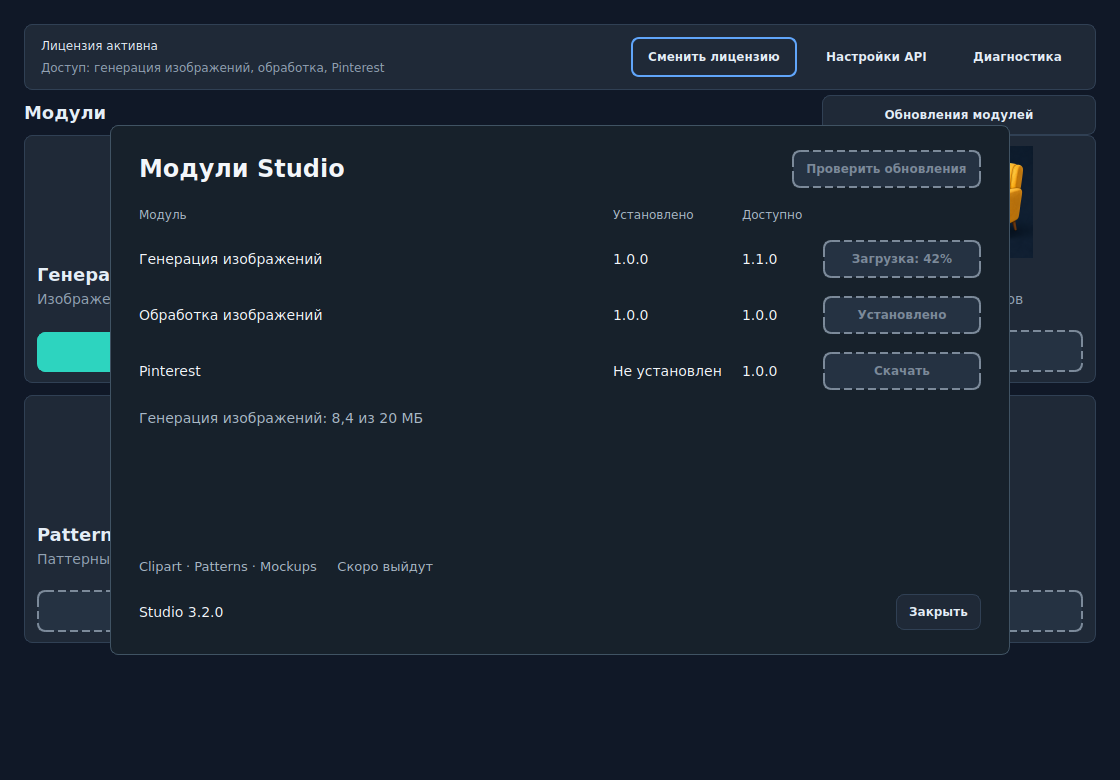
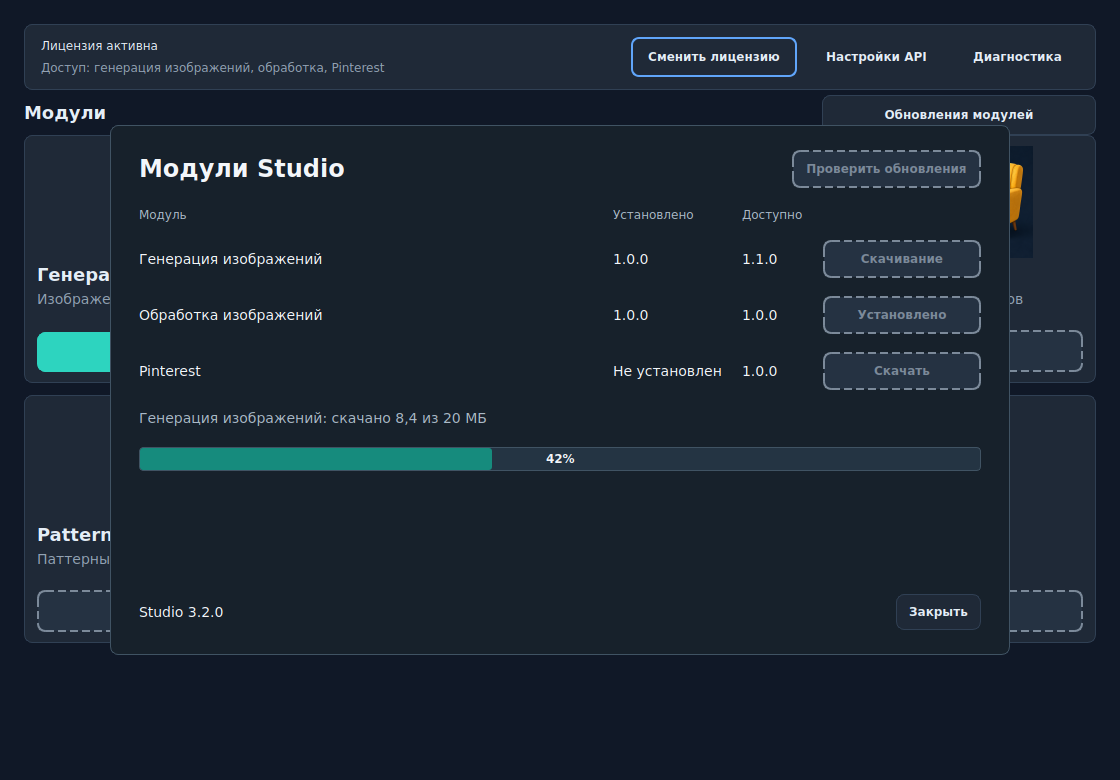
Refine approved module update mockups and progress states [skip ci]

diff --git a/docs/ui/3.2/module-delivery/render_proposal.py b/docs/ui/3.2/module-delivery/render_proposal.py
@@ -7,7 +7,7 @@ ROOT = Path(__file__).resolve().parents[4]
 sys.path.insert(0, str(ROOT))
 
 from PyQt6.QtCore import Qt
-from PyQt6.QtWidgets import QApplication, QFrame, QGridLayout, QHBoxLayout, QLabel, QPushButton, QVBoxLayout
+from PyQt6.QtWidgets import QApplication, QFrame, QGridLayout, QHBoxLayout, QLabel, QProgressBar, QVBoxLayout
 from v3_components import build_v3_stylesheet, V3Button, ButtonVariant
 from v3_mode_selection import V3ApplicationView
 
@@ -26,7 +26,8 @@ def render():
         entry = V3Button("Обновления модулей", variant=ButtonVariant.SECONDARY, parent=view)
         entry.setGeometry(822, 95, 274, 34)
         entry.show()
-        for state in ("available", "downloading", "busy", "error", "no-access"):
+        for state in ("available", "checking", "downloading", "verifying", "busy", "error", "no-access"):
+            in_progress = state in {"checking", "downloading", "verifying"}
             overlay = QFrame(view)
             overlay.setGeometry(110, 125, 900, 530)
             overlay.setObjectName("moduleProposal")
@@ -42,7 +43,7 @@ def render():
             heading.addWidget(title)
             heading.addStretch()
             check = V3Button("Проверить обновления", variant=ButtonVariant.SECONDARY)
-            check.setEnabled(state != "downloading")
+            check.setEnabled(not in_progress)
             heading.addWidget(check)
             layout.addLayout(heading)
             table = QGridLayout()
@@ -62,7 +63,9 @@ def render():
                 if state == "no-access":
                     available, action = "Нет доступа", "Недоступно"
                 elif state == "downloading" and row == 1:
-                    action = "Загрузка: 42%"
+                    action = "Скачивание"
+                elif state == "verifying" and row == 1:
+                    action = "Проверка пакета"
                 elif state == "busy" and row == 1:
                     action = "Проект открыт"
                 elif state == "error" and row == 1:
@@ -71,13 +74,15 @@ def render():
                     table.addWidget(QLabel(label), row, col)
                 button = V3Button(action, variant=ButtonVariant.PRIMARY if action in {"Скачать", "Обновить", "Повторить"} else ButtonVariant.SECONDARY)
                 button.setFixedWidth(158)
-                button.setEnabled(action in {"Скачать", "Обновить", "Повторить"} and state != "downloading")
+                button.setEnabled(action in {"Скачать", "Обновить", "Повторить"} and not in_progress)
                 table.addWidget(button, row, 3)
             table.setColumnStretch(0, 1)
             layout.addLayout(table)
             note = {
                 "available": "Проверено только что",
-                "downloading": "Генерация изображений: 8,4 из 20 МБ",
+                "checking": "Проверяем обновления модулей…",
+                "downloading": "Генерация изображений: скачано 8,4 из 20 МБ",
+                "verifying": "Проверяем скачанный пакет генерации изображений…",
                 "busy": "Обновление готово. Закройте проект генерации, чтобы установить его.",
                 "error": "Не удалось проверить пакет. Установленная версия 1.0.0 сохранена.",
                 "no-access": "В лицензии нет доступа к этим модулям.",
@@ -86,10 +91,23 @@ def render():
             status.setWordWrap(True)
             status.setStyleSheet("color:" + ("#f0b65a" if state in {"error", "busy"} else "#aab9c7") + ";")
             layout.addWidget(status)
+            if in_progress:
+                progress = QProgressBar()
+                progress.setFixedHeight(24)
+                progress.setStyleSheet(
+                    "QProgressBar {background:#243443;border:1px solid #405363;"
+                    "border-radius:4px;color:#f3f6fa;text-align:center;font-weight:600;}"
+                    "QProgressBar::chunk {background:#168b7d;border-radius:3px;}"
+                )
+                if state == "downloading":
+                    progress.setRange(0, 100)
+                    progress.setValue(42)
+                    progress.setFormat("%p%")
+                else:
+                    progress.setRange(0, 0)
+                    progress.setTextVisible(False)
+                layout.addWidget(progress)
             layout.addStretch()
-            future = QLabel("Clipart · Patterns · Mockups     Скоро выйдут")
-            future.setStyleSheet("color:#aab9c7;font-size:13px;")
-            layout.addWidget(future)
             footer = QHBoxLayout()
             footer.addWidget(QLabel("Studio 3.2.0"))
             footer.addStretch()
@@ -99,6 +117,12 @@ def render():
             overlay.raise_()
             app.processEvents()
             assert overlay.geometry().right() <= view.width()
+            if in_progress:
+                assert progress.width() > 600
+                assert overlay.rect().contains(progress.geometry())
+                assert progress.maximum() == (100 if state == "downloading" else 0)
+                if state == "downloading":
+                    assert progress.value() == 42
             view.grab().save(str(output / f"proposal-{state}.png"))
             overlay.hide()
             overlay.deleteLater()

diff --git a/docs/ui/3.2/module-delivery/README.md b/docs/ui/3.2/module-delivery/README.md
@@ -1,6 +1,8 @@
 # Module Update Proposal
 
-Status: awaiting owner approval. These are synthetic 1120x780 Qt mockups, not
+Status: owner accepted the base layout with two corrections on 2026-09-19:
+remove the future-module footer and show visible download progress. Both corrections
+are reflected here. These are synthetic 1120x780 Qt mockups, not
 working product screens. Regenerate with `render_proposal.py` and the existing
 test venv under `QT_QPA_PLATFORM=offscreen`; no license or provider is contacted.
 
@@ -9,11 +11,17 @@ three existing workflows. It shows installed/available versions and exact access
 `Обновить` or `Скачать` starts one selected transfer; package verification precedes
 installation. Live projects block activation, while the existing version remains
 usable. Errors preserve that version and require an explicit retry. No access
-disables delivery. Future automatic Clipart/Patterns/Mockups stay unreleased.
+disables delivery. Future modules are not advertised in this window.
+The check button concerns modules only. Studio itself retains its separate startup
+update notification and installer flow; the footer version is informational.
 
 - `before.png`: current screen with synthetic license status.
 - `proposal-available.png`: installed/current/update/download states.
-- `proposal-downloading.png`: transfer progress; repeated actions disabled.
+- `proposal-checking.png`: indeterminate indicator while checking releases.
+- `proposal-downloading.png`: progress bar, actual percent and received/total MB;
+  repeated actions disabled. The snapshot uses synthetic 42%.
+- `proposal-verifying.png`: indeterminate indicator during package verification;
+  no artificial percentage after the transfer is complete.
 - `proposal-busy.png`: activation blocked by a live project.
 - `proposal-error.png`: verification failure, previous version preserved.
 - `proposal-no-access.png`: delivery disabled by license rights.

diff --git a/STATE.md b/STATE.md
@@ -1,5 +1,15 @@
 # Project state
 
+## Module update mockup corrections, 2026-09-19
+
+Owner accepted the base layout with corrections: remove the footer advertising
+future Clipart/Patterns/Mockups and visibly show download activity. Updated the
+synthetic Qt proposals: determinate progress bar + percent + received/total MB,
+and indeterminate indicators for checking releases/verifying the package.
+The module check button remains module-only; Studio's existing startup notification
+and installer flow are separate. This is a mockup revision, not live updater UI.
+Next: implement the accepted module-update layout with these corrections.
+
 ## Licensed module delivery integration, 2026-09-19
 
 Current branches remain `codex/feature-module-release-packaging-20260919` and
@@ -49,9 +59,9 @@ provisioning, admin module-release UI/publication automation, user-facing update
 controls and Windows installed acceptance remain open. Runtime APIs and test fixtures
 do not make updates available to current customers. No production migration/deploy,
 build, Actions, real license modification or paid call was performed.
-UI approval is pending for `docs/ui/3.2/module-delivery/proposal-*.png`; these are
-synthetic proposals, not implemented screens. Implement only after owner approval.
-Next: approve/connect module update controls, add approved admin module-release
+The base UI in `docs/ui/3.2/module-delivery/proposal-*.png` was subsequently accepted
+with corrections recorded above; these remain synthetic proposals, not implemented screens.
+Next: connect corrected module update controls, add approved admin module-release
 controls and publisher key provisioning, then separately authorized deployment/build.
 
 Reproduce integration: set `LICENSE_SERVICE_SOURCE` to the matching service `src`,

diff --git a/TASKS.md b/TASKS.md
@@ -17,7 +17,9 @@ license rights. Future automatic Clipart uses `auto-clipart` and remains unrelea
 - [x] Connect installed signed workflow packages to real Studio controller launch;
   verify HTTPS download/install/update/rollback/project preservation for all three flows.
 - [x] Official workflow inventory packaging API and CLI; no manual ZIP assembly.
-- [ ] Approve and connect user-facing update controls. Mockups pending in
+- [x] Base module-update layout accepted with corrections: no future-module footer;
+  visible transfer percent/MB and indeterminate checking/verification indicators.
+- [ ] Connect corrected user-facing update controls from
   `docs/ui/3.2/module-delivery/`; no download buttons enabled prematurely.
 - [ ] Admin module-release UI and controlled publication workflow.
 - [ ] Provision production publisher keys (current client trust set is empty).
